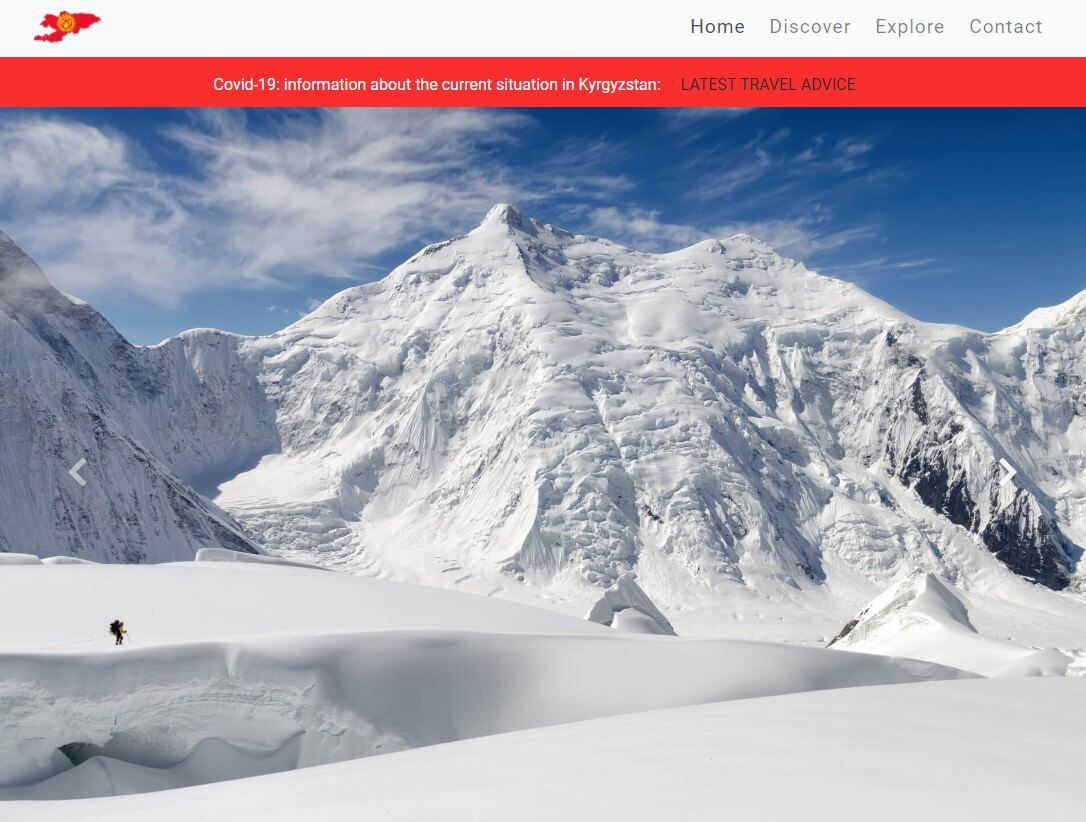
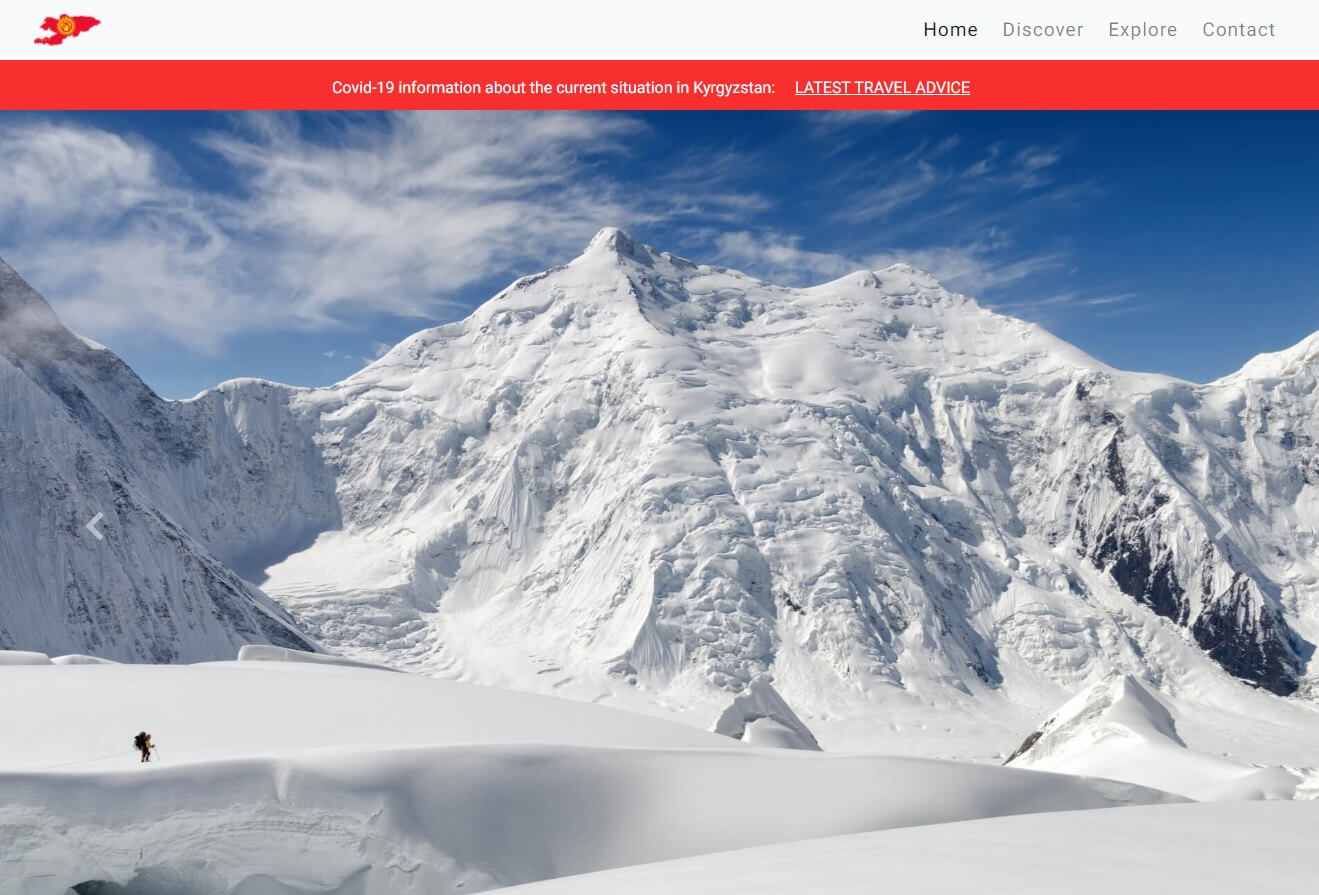
modify media queries and fix css margins and paddings

diff --git a/index.html b/index.html
@@ -35,7 +35,7 @@
 	<div class="container-fluid" id="home">
 		<div class="row">
 			<div class="col-12 covid-alert mt-5 pt-3">
-                <p>Covid-19: information about the current situation in Kyrgyzstan: <a class="covid-link" aria-label="Learn more" href="https://www.gov.uk/foreign-travel-advice/kyrgyzstan" 
+                <p>Covid-19 information about the current situation in Kyrgyzstan: <a class="covid-link" aria-label="Learn more" href="https://www.gov.uk/foreign-travel-advice/kyrgyzstan" 
                     target="_blank" rel="noopener">LATEST TRAVEL ADVICE</a> </p>
 			</div>
 		</div>
@@ -59,8 +59,8 @@
 	<!--About section-->
 	<div id="discover">
 		<div class="container-fluid">
-			<div class="row about-country-heading mt-lg-5 py-5 py-sm-3">
-				<div class="col-12 pt-5">
+			<div class="row about-country-heading mt-md-5 py-md-5 py-sm-3">
+				<div class="col-12 pt-5 pt-sm-2">
 					<h1>Discover Kyrgyzstan</h1> </div>
 			</div>
 			<div class="row about-country-content px-3">
@@ -121,16 +121,17 @@
 	<div id="explore">
 		<div class="container-fluid">
 			<div class="row pt-4">
-				<div class="col-12 map-title text-center mt-lg-5 py-4">
-					<h2>Explore these places</h2> </div>
+				<div class="col-12 map-title text-center mt-md-5 py-4">
+                    <h2>Explore these places</h2> 
+                </div>
 			</div>
 			<div class="row">
-				<div id="sidebar" class="col-md-4 sidebar px-3"> <img class="img-fluid" src="assets/images/wrestling.jpg" alt="Athletes wrestling on a horseback at the World Nomad Games">
+				<div id="sidebar" class="sidebar col-lg-4 px-3"> <img class="img-fluid" src="assets/images/wrestling.jpg" alt="Athletes wrestling on a horseback at the World Nomad Games">
 					<h5 class="sidebar-heading py-4">World Nomad Games</h5>
 					<p class="sidebar-text">The World Nomad Games are the biggest international project held in the Kyrgyz Republic, a project initiated by the government in 2012 for the revival and preservation of the culture of nomadic civilization.
 						<br> In the third World Nomad Games held in 2018, over 3,000 athletes from 74 countries, including USA and Philippines, participated in competitions in 37 types of ethnosports. </p>
 				</div>
-				<div class="col-md-8">
+				<div class="col-lg-8">
 					<div id="map"> </div>
 				</div>
 			</div>
@@ -140,16 +141,16 @@
 	<!-- Contact Form -->
 	<div id="contact">
 		<div class="container-fluid">
-			<div class="row">
+			<div class="row pt-4">
 				<div class="col-12 text-center py-5">
-					<h2 class="contact-heading py-3">Get in touch with us</h2>
+					<h2 class="contact-heading pt-4 pb-3">Get in touch with us</h2>
 					<p class="lead">Thank you for visiting us!</p>
 					<p class="lead">If you've got questions, feedback or ideas you would like to share, please contact us using the form below.</p>
 					<p class="lead">We'd love to hear from you!</p>
 				</div>
 			</div>
 			<div class="row contact-form justify-content-center align-items-center">
-				<div class="col-xs-10 col-md-6">
+				<div class="col-xs-10 col-md-8 col-lg-6 col-xl-4">
 					<form id="contactForm" onsubmit="return sendMail(this);">
 						<div class="form-group">
 							<label for="name">Name</label> <span class="form-label-marker">*</span>

diff --git a/assets/css/style.css b/assets/css/style.css
@@ -32,7 +32,7 @@ body p {
 
 .nav-link:hover,
 .nav-link.active {
-  color: #4E4E4E!important;
+  color: #4E4E4E;
 }
 
 /*-- Covid-alert --*/
@@ -49,7 +49,8 @@ body p {
 }
 
 .covid-alert a {
-  color: #2c2c2c;
+  color: #fff;
+  text-decoration: underline;
 }
 
 .covid-link {
@@ -59,9 +60,8 @@ body p {
     
 /*-- Carousel Slide ---*/
 .carousel-inner {
-  max-height: 52rem!important;
-  width: 100%;
-  background: no-repeat center center;
+  max-height: 52rem;
+  width: 100%;  
   object-fit: cover;
 }
 
@@ -115,7 +115,7 @@ h1 {
 }
 
 .btn-danger:hover {
-  color: red!important;
+  color: red;
   background-color: #fff;
   transition: all 0.4s ease-in-out;
   -moz-transition: all 0.4s ease-in-out;
@@ -162,8 +162,7 @@ div#map {
 }
 
 /*-- Form --*/
-.contact-form {
-  max-width: 80%;
+.contact-form {  
   margin: 0 auto;
 }
 
@@ -226,8 +225,6 @@ ul.social li a i {
   color: #fff;
   padding: 0;
 }
-
-
 
 /*--Media Queries--*/
 @media (max-width: 1200px) {

diff --git a/assets/javascript/cards.js b/assets/javascript/cards.js
@@ -3,8 +3,7 @@
 var cards = document.querySelector('#discover-cards');
 
 cards.addEventListener('click', function(e) {
-  var target = e.target;
- // Add / remove classes 
+  var target = e.target; 
   if (target.classList.contains('btn')) {       
     var cardBody = target.parentNode;
     var open = target.dataset.open === 'true';

diff --git a/README.md b/README.md
@@ -1,6 +1,5 @@
 # Visit Kyrgyzstan
 ___
-___
 ![responsive image](https://github.com/Nazulka/MS2-Visit-Kyrgyzstan/blob/main/assets/images/demo.jpg "responsive image")
 ## Demo 
 Live Demo [here :point_left:](https://nazulka.github.io/MS2-Visit-Kyrgyzstan/)
@@ -29,7 +28,6 @@ ___
 
 
 ## UX
-___
 ___
 ### **This website will appeal to:**
 ___
@@ -90,7 +88,6 @@ explore the destination from their computers, whether they are looking for a gui
 
 ## Technologies Used 
 ___
-___
 ### Languages Used
 ___
 * HTML5
@@ -118,10 +115,8 @@ which is compatible with all modern browsers. The components used: navigation, b
 
 ## Features
 ___
-___
 ### Existing Features
 ___
-
 * **Header**
     * Header - responsive navigation header, designed using Bootstrap "navbar" and "fixed-top" and "navbar-light" classes.  
     It is positioned on top of the page and always visible. This allows easy navigation if users wish to jump to a different section of the website. 
@@ -180,7 +175,6 @@ Some of the ideas for the blog include:
 
 ## Testing
 ___
-___
 ### Code Validity
 ___
 * HTML Markup Validation Service - [Pass](https://validator.w3.org/)
@@ -228,7 +222,6 @@ ___
         * The Contact Form allows users to get in touch with their queries. 
 
 ## Further Testing
-___
 ___
 ### Functionality Testing
 ___
@@ -302,7 +295,6 @@ There are no known bugs at the time of submitting this project.
 
 ## Deployment
 ___
-___
 All code for this website was written in Gitpod and then pushed to GitHub to store in my local repository.
 It was then published using GitHub Pages directly from the _main branch_ by following the steps below: 
 * Select **MS-2-Visit-Kyrgyzstan** in the repositories
@@ -315,7 +307,6 @@ It was then published using GitHub Pages directly from the _main branch_ by foll
 There is no difference between the deployed version and the development version.
 
 ## Credits
-___
 ___
 ### Code 
 ___
